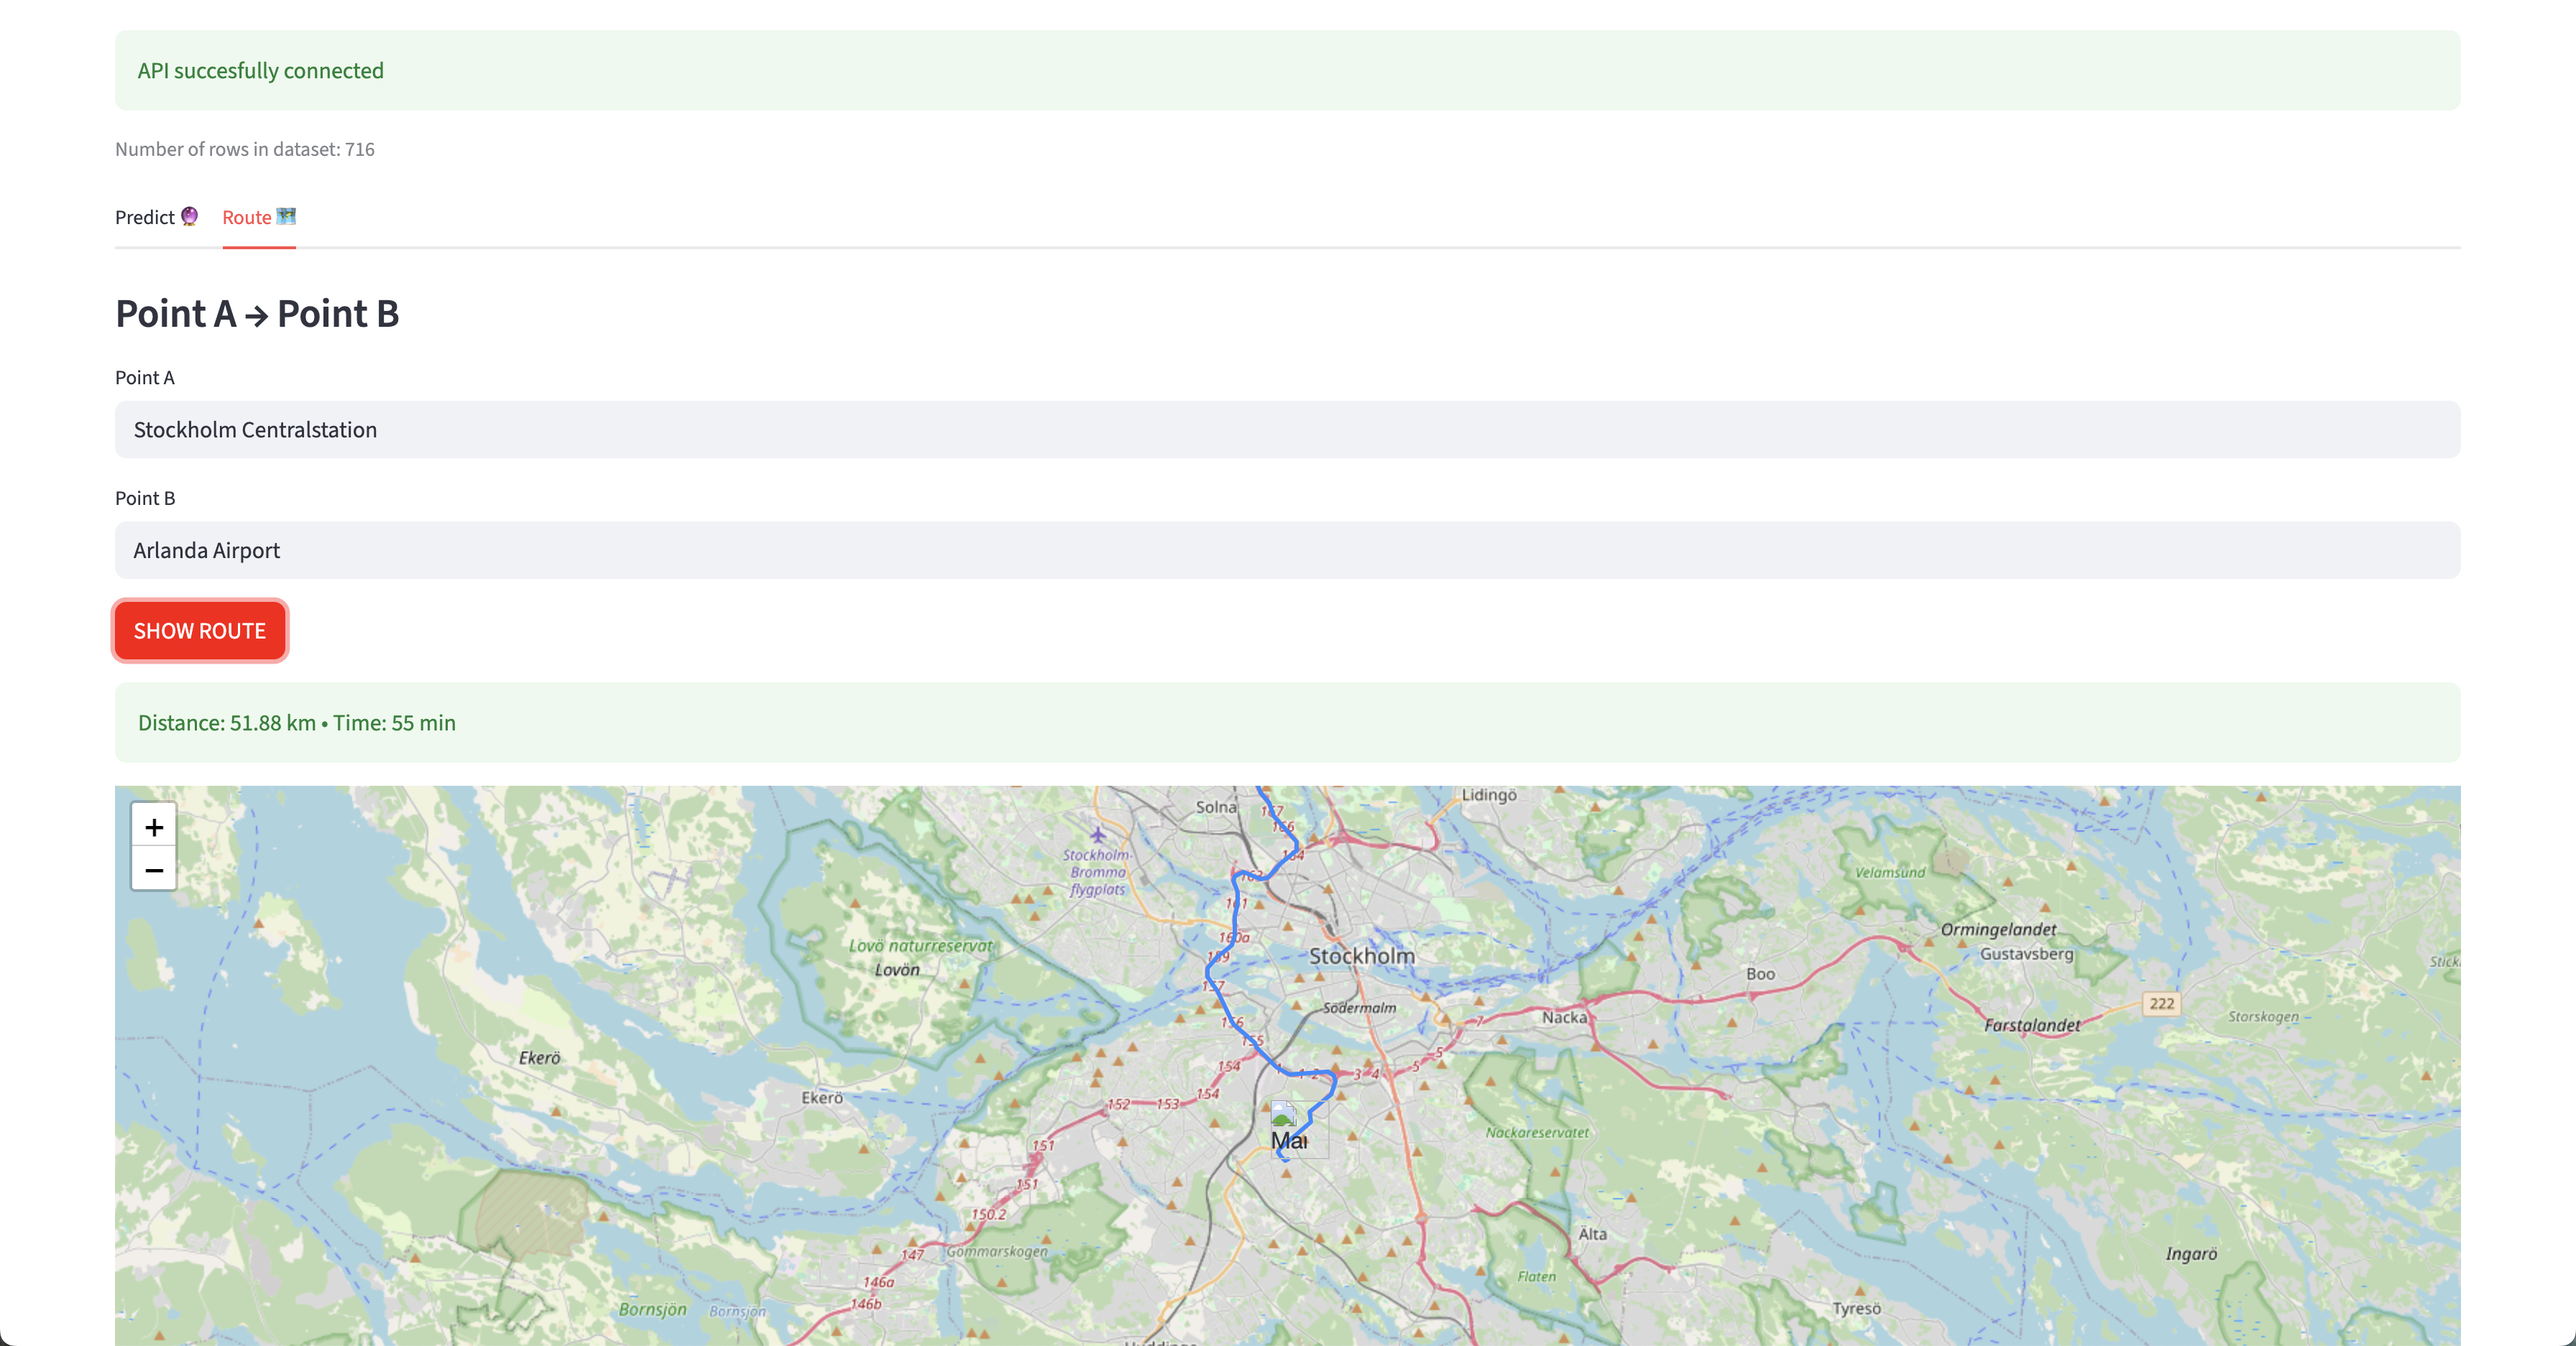
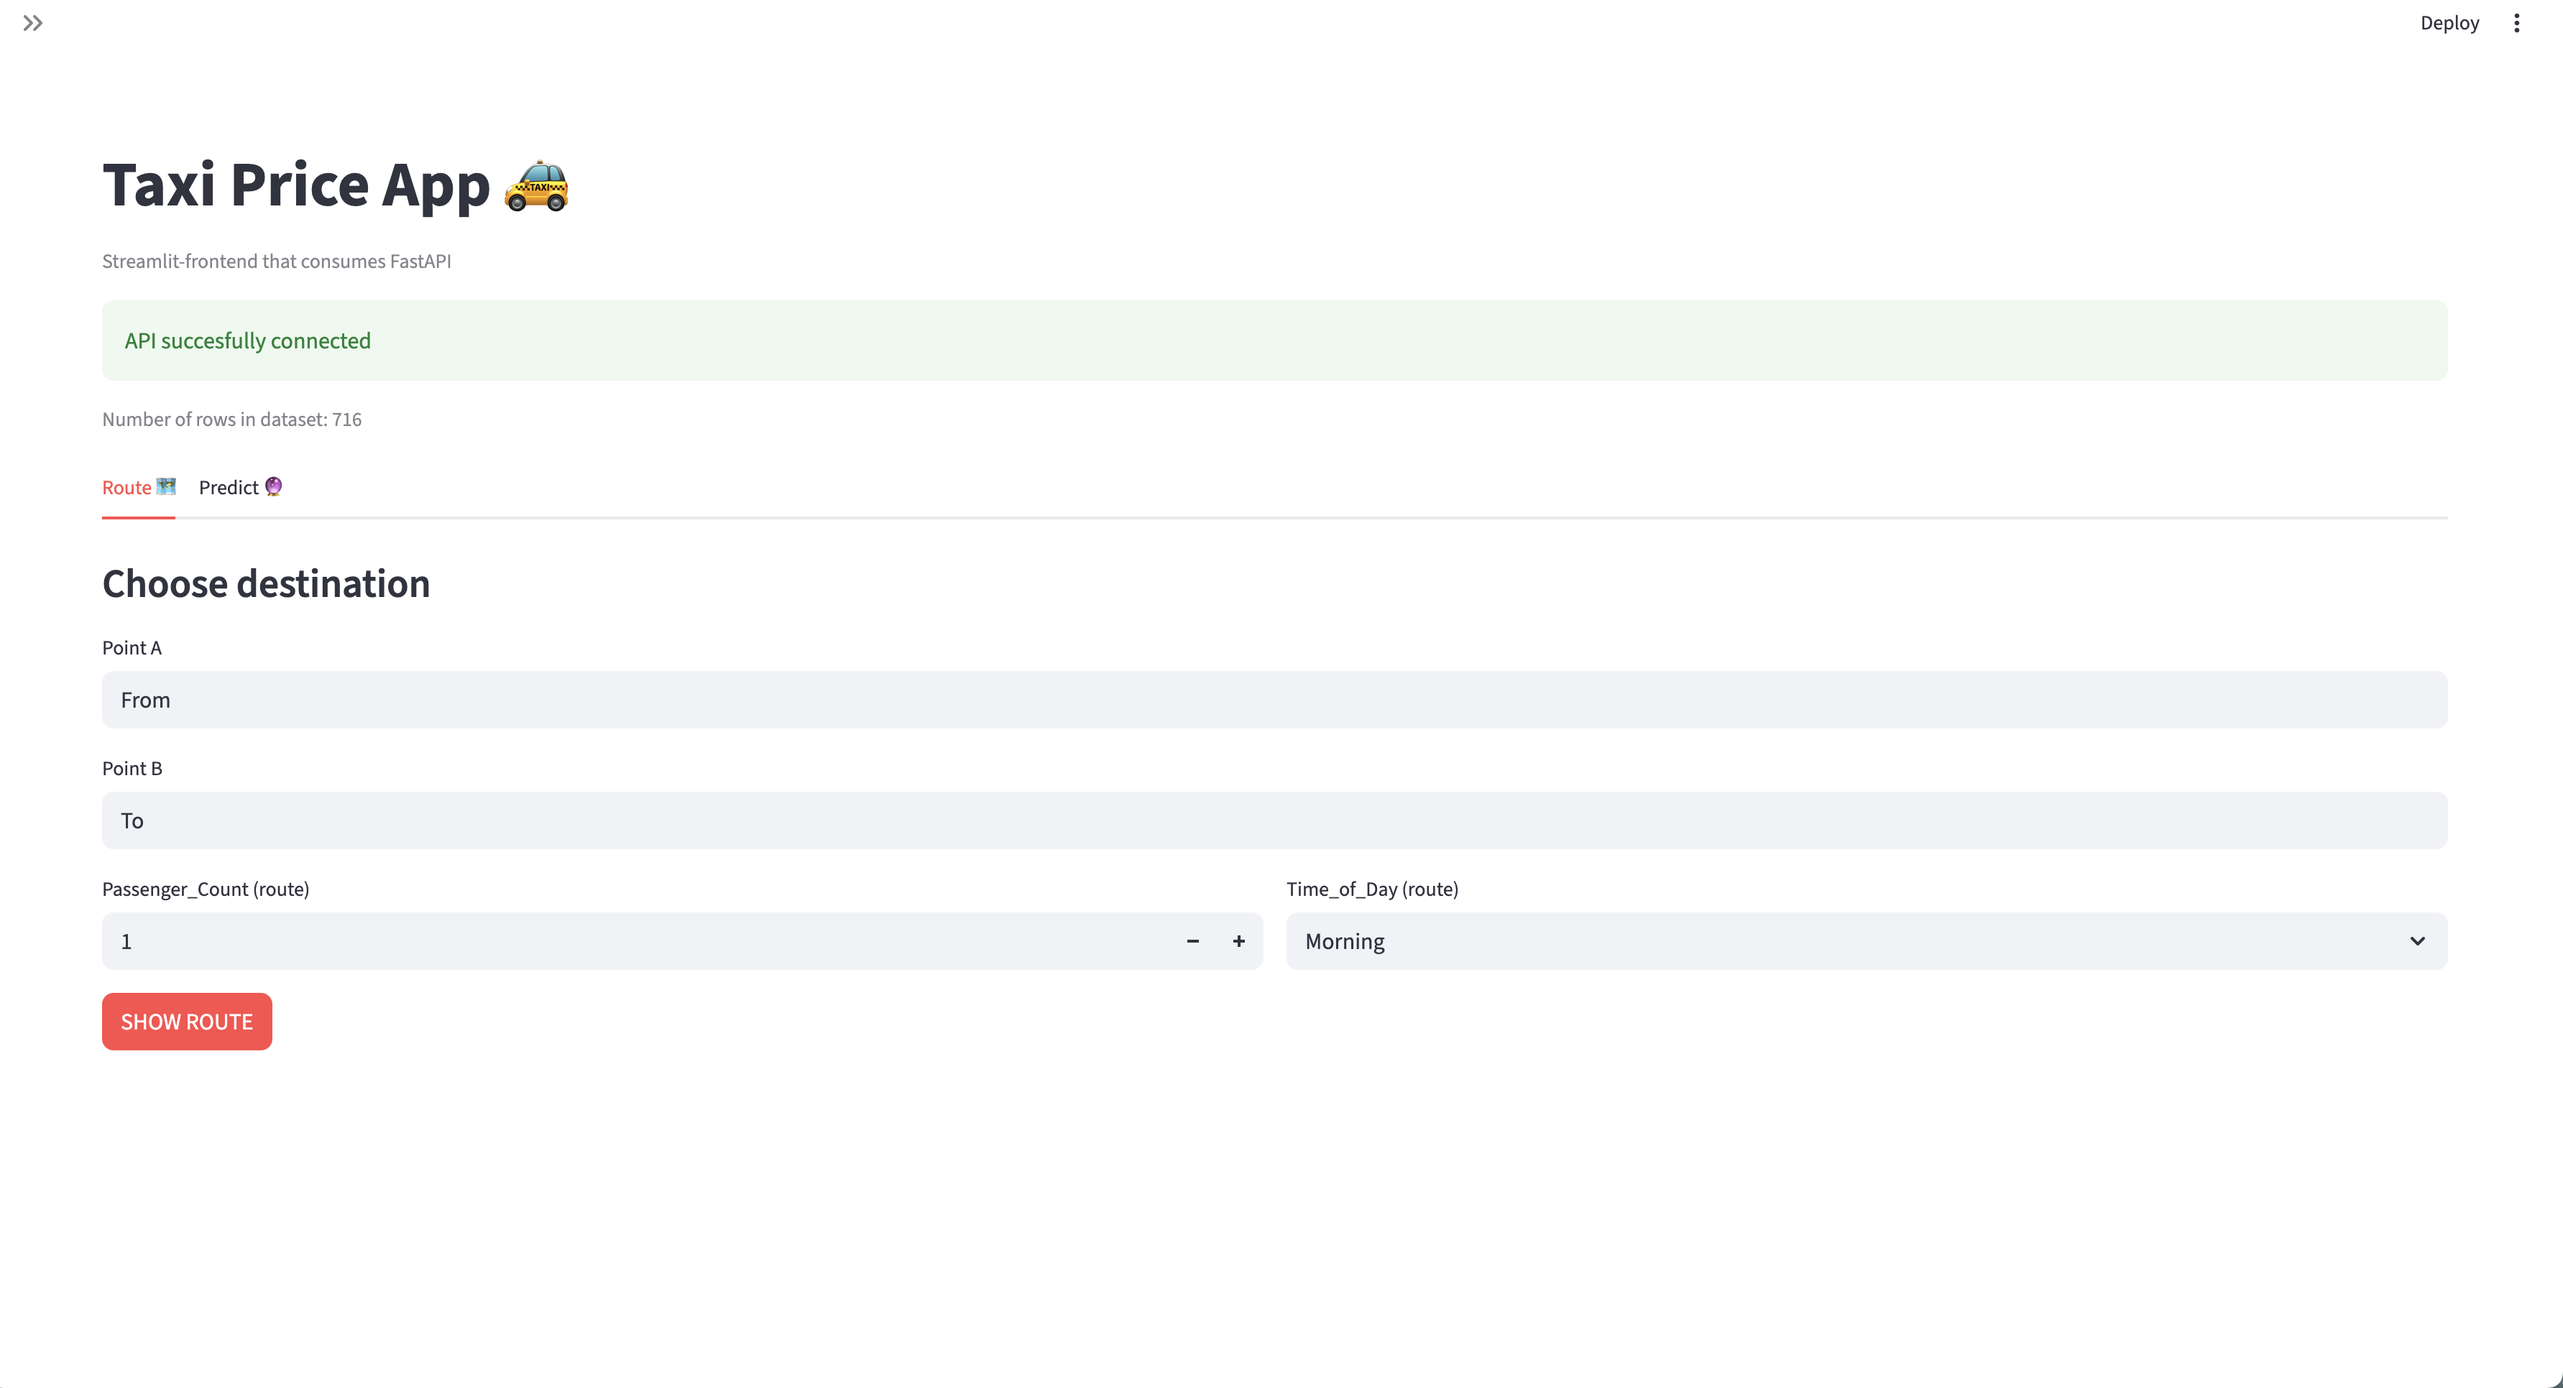
Some fine adjustments in README

diff --git a/README.md b/README.md
@@ -8,7 +8,7 @@ Fullstack ML application for predicting taxi prices
 ### Insert point A to B
 ![A to B](images/point_a_to_b.png)
 ### Map over route
-![Map](images/map_of_route.png)
+![Map](images/map_of_route)
 
 ## Project structure 
 ```
@@ -31,15 +31,15 @@ TAXI_PREDICTION_FULLSTACK/
 │       │   │                  
 │       │
 │       ├── data/               
-│       │   └── taxi_trip_pricing.csv # Raw and cleaned data
+│       │   └── taxi_trip_pricing.csv # Raw data
 │       │
 │       ├── model_development/  # Model dev and analysis
 │       │   ├── eda.ipynb        # Exploratory Data Analysis
-│       │   ├── model_dev.ipynb  # Training and model
-│       │   ├── test_model.ipynb # Model testing och validation
+│       │   ├── model_dev.ipynb  # Training and model evaluation
+│       │   ├── test_model.ipynb # Model testing and validation
 │       │   ├── taxi_cleaned_train.csv
 │       │   ├── taxi_prediction_input.csv
-│       │   └── taxi_price_model.pkl
+│       │   └── taxi_price_model.joblib 
 │       │
 │       ├── utils/              
 │       │   ├── constants.py    # Constants and global settings
